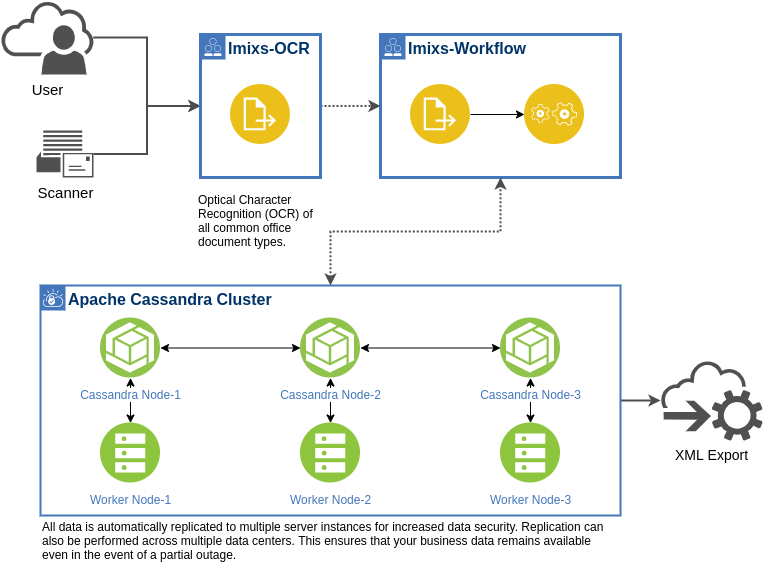
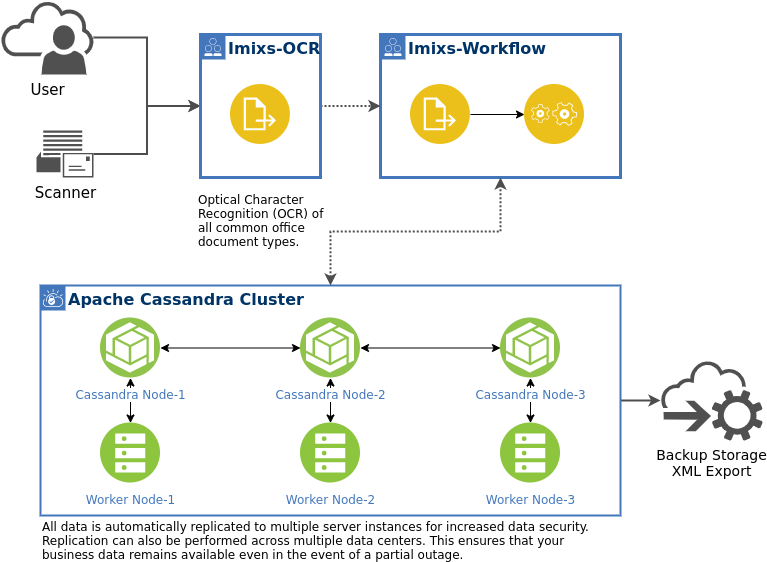
docu

diff --git a/imixs-archive-backup/README.md b/imixs-archive-backup/README.md
@@ -9,10 +9,15 @@ The Backup Service can be configured in a Imixs-Workflow instance by adding the 
 
 ## Backup Workflow
 
-The backup workflow depends on the archive infrastructure. In case of a simple setup without a Cassandra Archive Service installed, the backup request is generated directly after a new Snapshot Workitem was stored. The snapshot will be backuped and remains in the database.
+The backup workflow depends on the archive infrastructure. 
+
+In case of a simple setup without a Cassandra Archive Service installed, the backup request is generated directly after a new Snapshot Workitem was stored. The snapshot will be backuped and remains in the database.
+
+<img src="https://github.com/imixs/imixs-archive/raw/master/docs/imixs-backup.png"/>
 
 In case of using the [Cassandra Archive Service](../imixs-archive-service/README.md) the backup request is generated after the snapshot was successful transferred into the Cassandra cluster. After the snapshot was be backuped successful, the snapshot will be removed form the database. This concept reduces the size of the database as file data is no longer stored in the database but in the Cassandra cluster.
 
+<img src="https://github.com/imixs/imixs-archive/raw/master/docs/imixs-archive-backup.png"/>
 
 # Development
 
